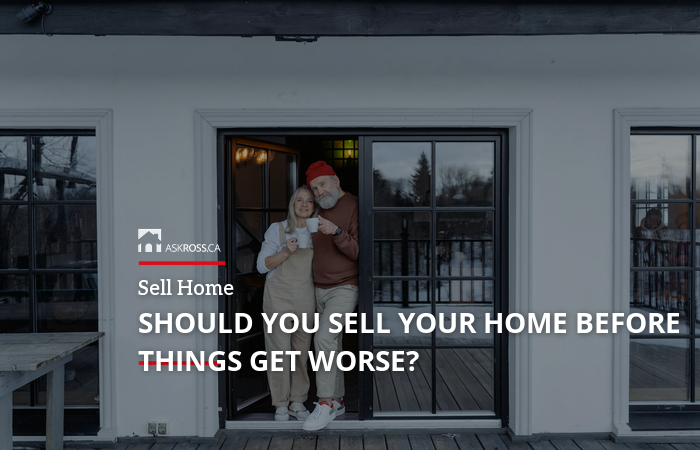
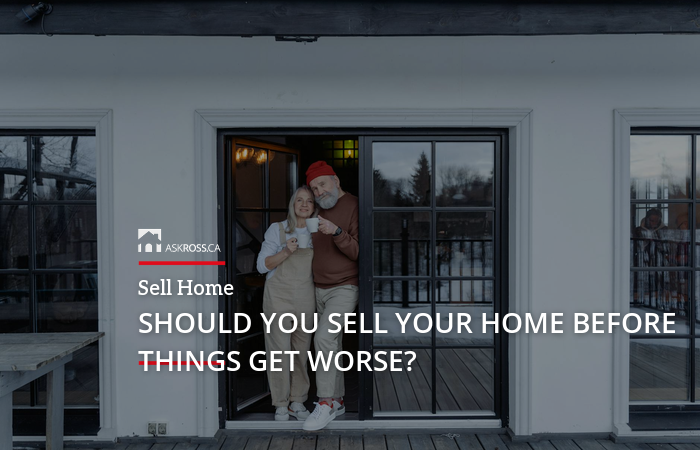
Feature title: Open Sans SemiBold (600)

Changed region(s): [[0.24, 0.6844, 0.99, 0.7467], [0.21, 0.7778, 0.6, 0.84], [0.21, 0.6844, 0.24, 0.7156]]

diff --git a/generate_phase2.py b/generate_phase2.py
@@ -261,7 +261,7 @@ def _composite_phase2(manifest: dict, feature_bg: Image.Image, article_bgs: dict
     gmb_overlay_dir       = str(REF_DIR / "BLOG RESHARE - GMB - POST ONLY- IMAGES TEMPLATE")
     font_archivo          = str(REF_DIR / "(2) Newsletter Image Creation - Use for process creation reference" / "(1) Banner Images" / "fonts" / "Archivo_Black" / "ArchivoBlack-Regular.ttf")
     font_aleo             = str(SCRIPT_DIR / "fonts" / "Aleo" / "static" / "Aleo-SemiBold.ttf")
-    font_opensans         = str(SCRIPT_DIR / "fonts" / "Open_Sans" / "static" / "OpenSans-Bold.ttf")
+    font_opensans         = str(SCRIPT_DIR / "fonts" / "Open_Sans" / "static" / "OpenSans-SemiBold.ttf")
 
     article_title    = manifest["title"]
     title_line_count = manifest.get("title_line_count", 2)

diff --git a/run.py b/run.py
@@ -110,7 +110,7 @@ ASSET_PATHS = {
         SCRIPT_DIR / "fonts" / "Aleo" / "static" / "Aleo-SemiBold.ttf"
     ),
     "font_opensans": (
-        SCRIPT_DIR / "fonts" / "Open_Sans" / "static" / "OpenSans-Bold.ttf"
+        SCRIPT_DIR / "fonts" / "Open_Sans" / "static" / "OpenSans-SemiBold.ttf"
     ),
     # Manifest
     "manifest": SCRIPT_DIR / "out" / "manifest.json",